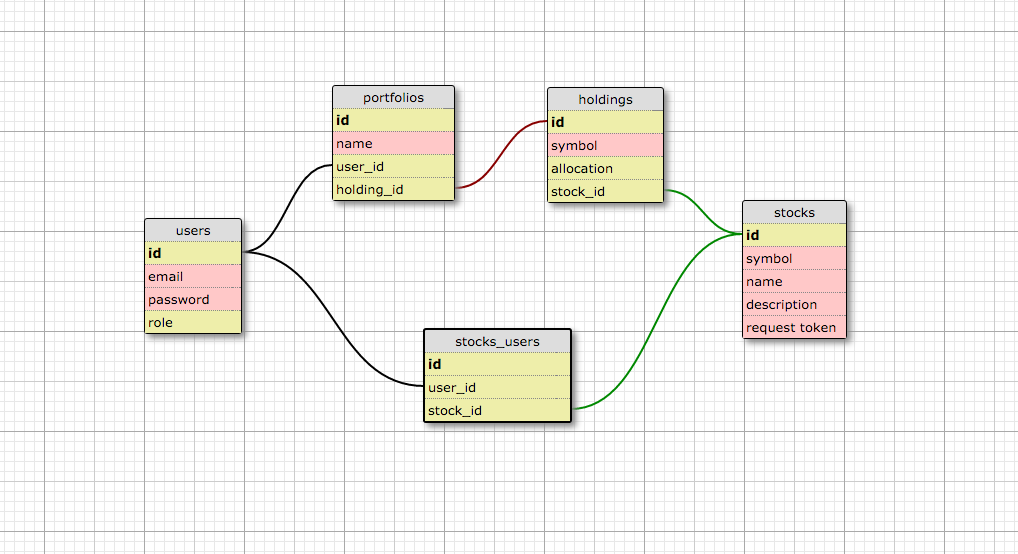
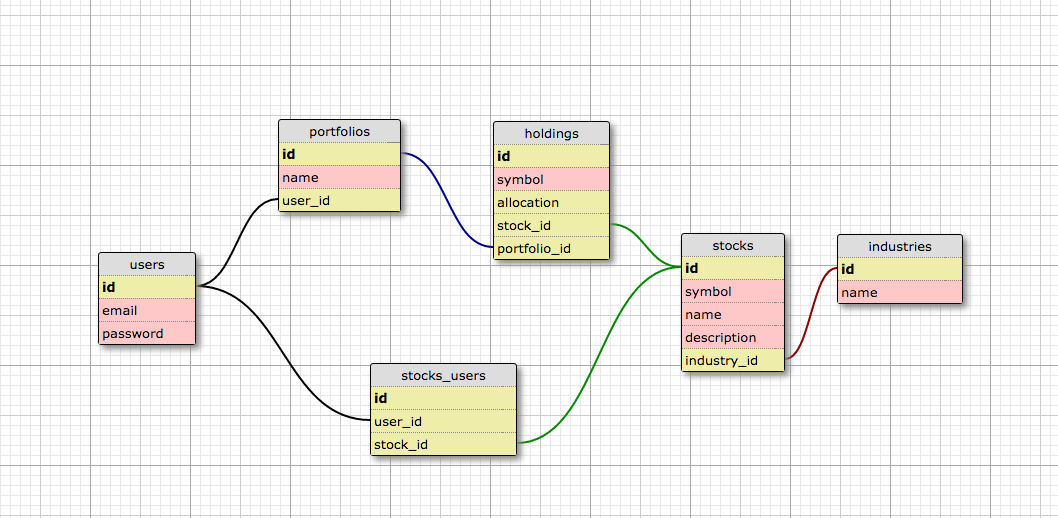
Update schema image, Edit portfolio/stock association

diff --git a/app/assets/javascripts/highcharts.js b/app/assets/javascripts/highcharts.js
@@ -1,0 +1,12 @@
+$(document).ready(function(){
+  addChart();
+
+});
+
+var addChart = function(){
+  $("#example").on("click",function(){
+    console.log(gon.array)
+    $("#chart").html(gon.array)
+    debugger;
+  })
+}

diff --git a/app/assets/javascripts/application.js b/app/assets/javascripts/application.js
@@ -1,5 +1,6 @@
 //= require jquery
+//= require jquery_ujs
+//= require turbolinks
 //= require materialize-sprockets
 //= require materialize/extras/nouislider
-
 //- require tree .

diff --git a/app/models/portfolio.rb b/app/models/portfolio.rb
@@ -2,6 +2,7 @@ class Portfolio < ActiveRecord::Base
 
   belongs_to :user
   has_many :holdings
+  has_many :stocks, through: :holdings
   accepts_nested_attributes_for :holdings,
     :allow_destroy => true,
     :reject_if     => :all_blank

diff --git a/app/models/stock.rb b/app/models/stock.rb
@@ -2,6 +2,7 @@ class Stock < ActiveRecord::Base
   has_many :holdings
   has_many :stocks_users
   has_many :users, through: :stocks_users
-  
+  has_many :portfolios, through: :holdings
+
   belongs_to :industry
 end
